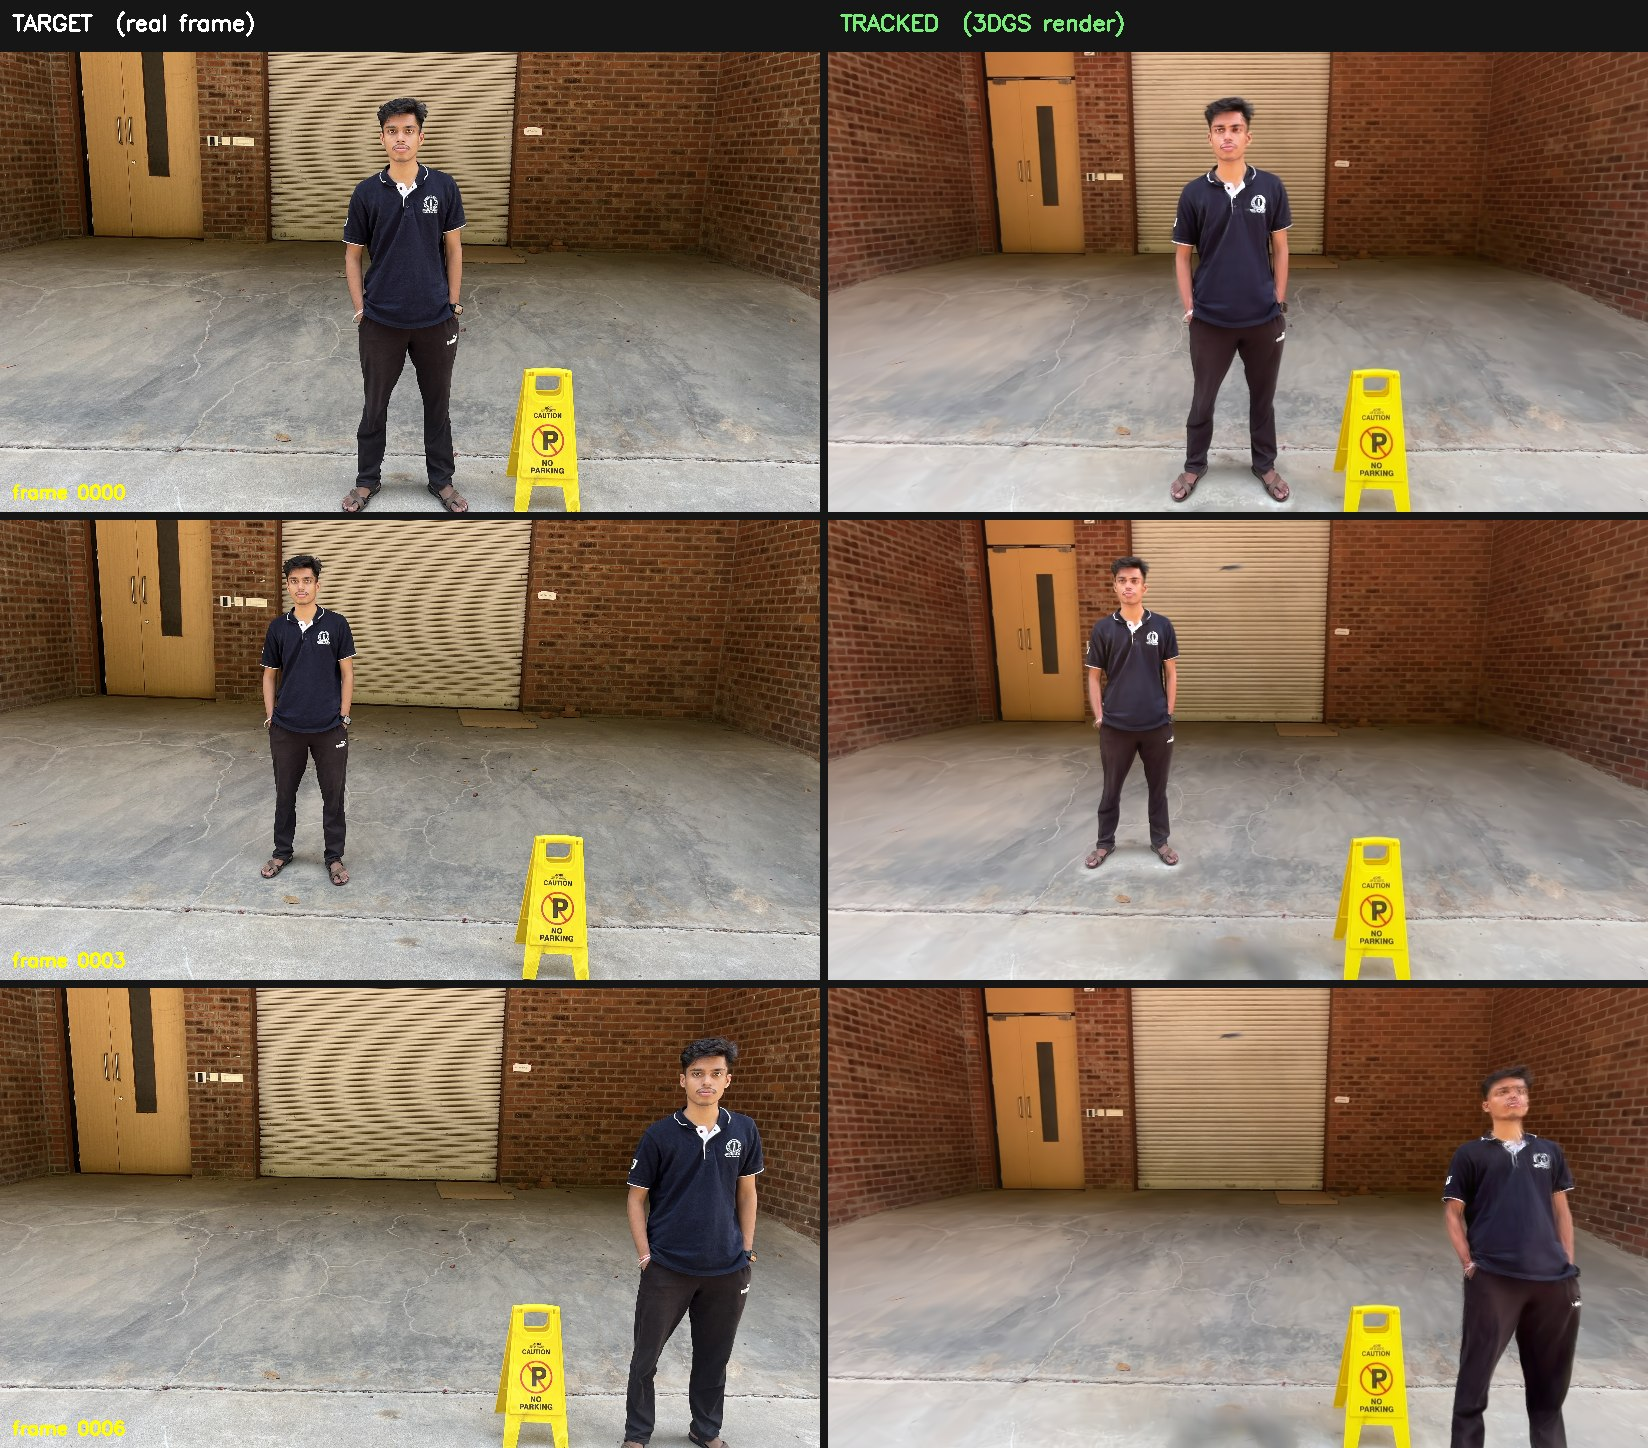
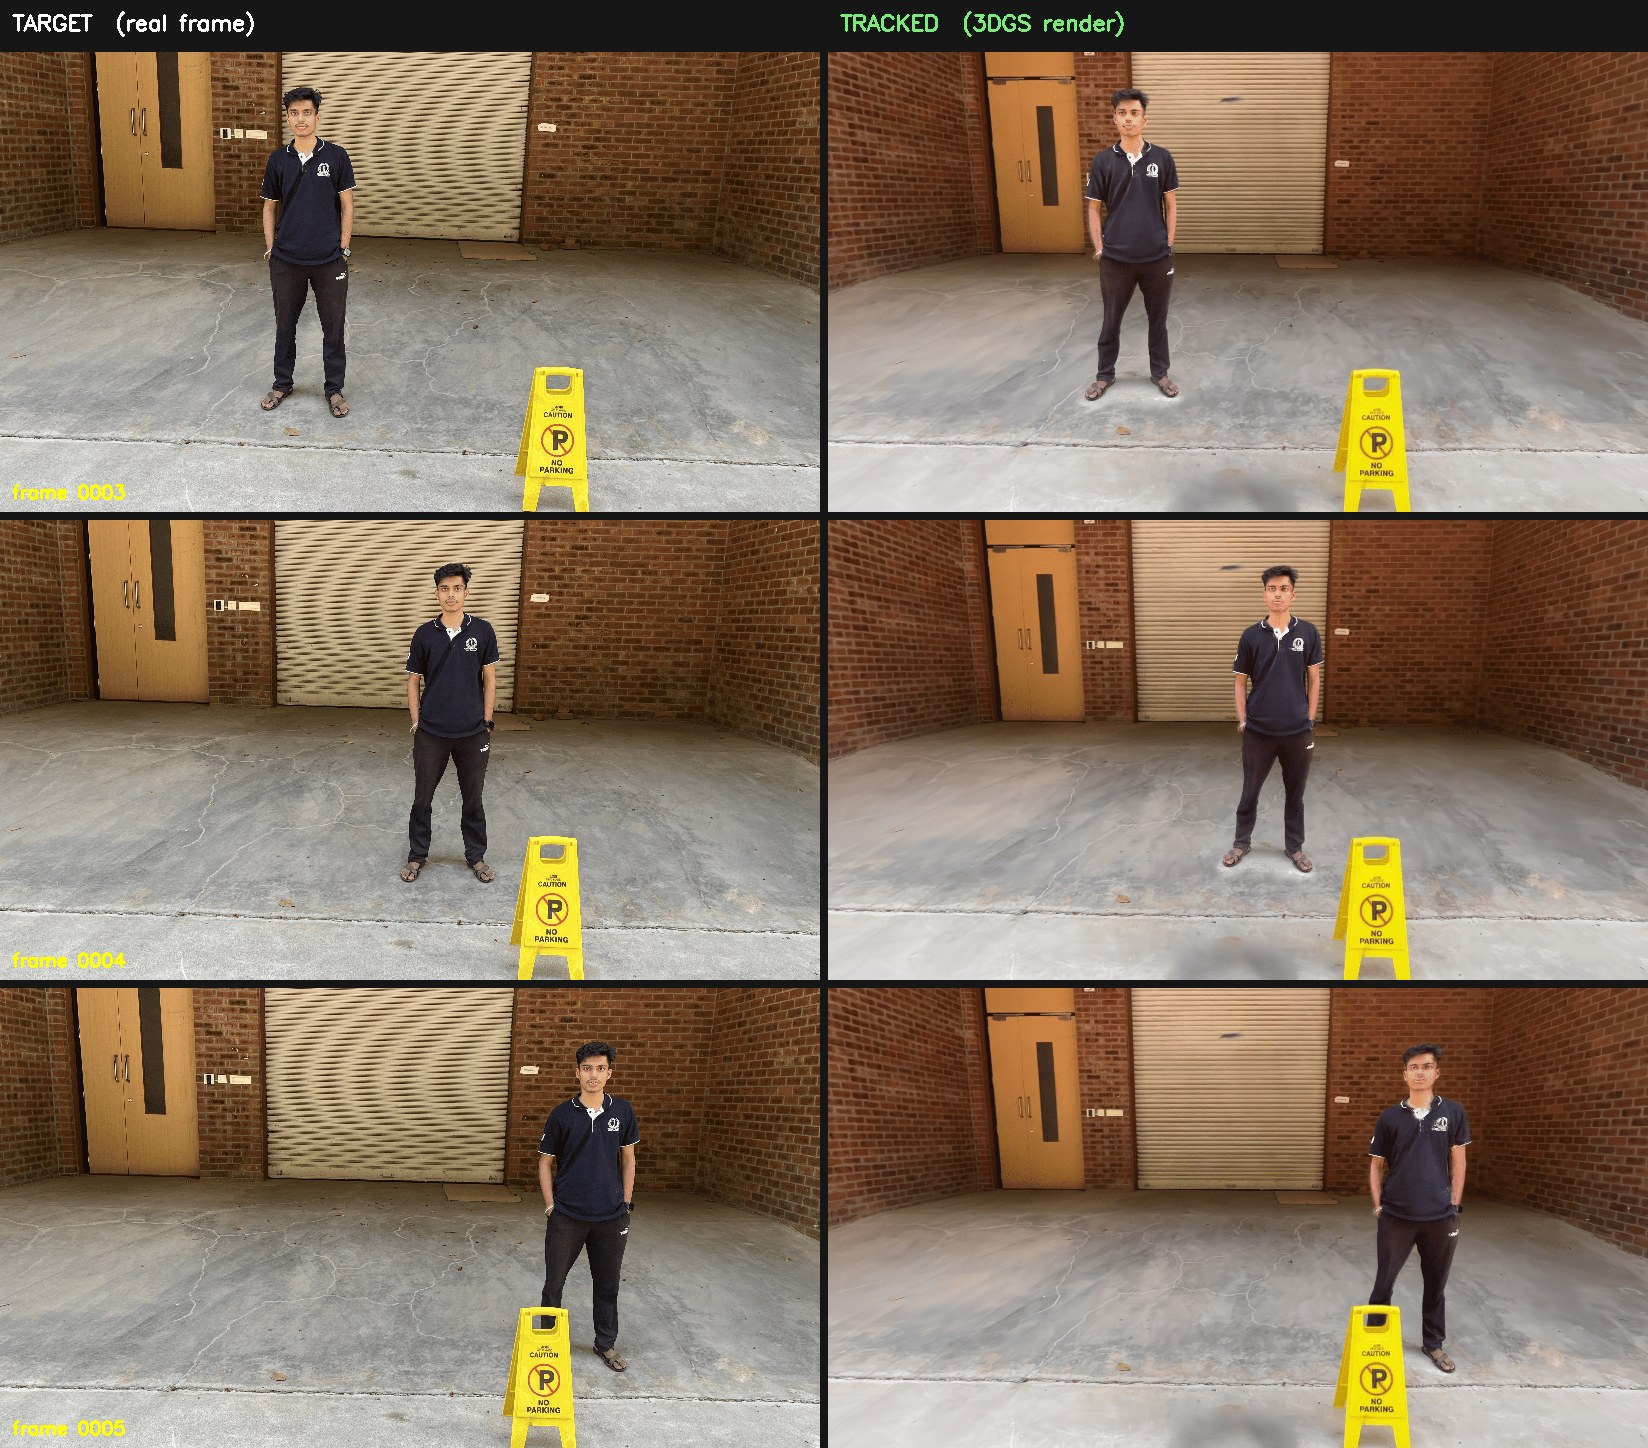
docs: add dataset download link and update result showcase images
Use the hand-curated target/tracked frames for the README montages and
add the Google Drive dataset link to README and installation_usage.

diff --git a/installation_usage.md b/installation_usage.md
@@ -101,6 +101,15 @@ placed under `data/<dataset>/` (see next section).
 
 ## 4. Dataset preparation
 
+📦 **Download the sample datasets:** [**Google Drive**](https://drive.google.com/file/d/1eN68qAjqv5BhF6cfiISJVnUkrYIBHeq-/view?usp=sharing)
+
+From the command line (`gdown` is installed by `installation.sh`):
+
+```bash
+gdown 1eN68qAjqv5BhF6cfiISJVnUkrYIBHeq-
+# then extract the archive so each scene ends up under data/<dataset>/
+```
+
 Each scene lives in its own folder under `data/`:
 
 ```

diff --git a/README.md b/README.md
@@ -85,7 +85,7 @@ under `data/<dataset>/` — see below.
 The scene data (COLMAP reconstruction, training images, the 3DGS checkpoint, the
 camera image and the video frames) is **not** bundled in this repository.
 
-📦 **Download the sample datasets:** _**[ dataset link — to be added ]**_
+📦 **Download the sample datasets:** [**Google Drive**](https://drive.google.com/file/d/1eN68qAjqv5BhF6cfiISJVnUkrYIBHeq-/view?usp=sharing)
 
 Expected layout per scene:
 
